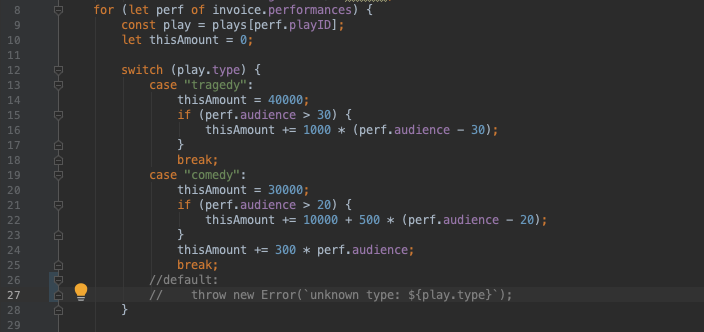
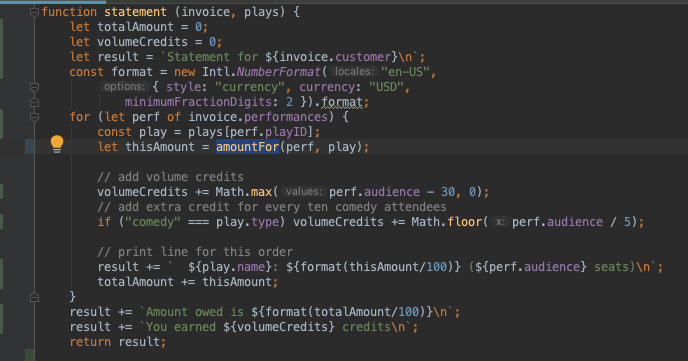
HandsOnLab: update decomposing/readme.md

diff --git a/HandsOnLab/3-Decomposing/readme.md b/HandsOnLab/3-Decomposing/readme.md
@@ -73,36 +73,59 @@ function statement (invoice, plays) {
 
 ### amountFor 함수 추출
 
-- 임시로 switch 문 default 문  코멘트 처리하기
+- amountFor 함수 추출
 
-  - 아래와 같이 amountFor 코드 영역을 선택하고 바로 "Extract Method" 리팩토링을 수행하면 아래와 같이 "Selected fragment has multiple exit points" 문구가 출력되는 경우가 있다.
+  - 아래와 같이 amountFor 코드 영역을 선택하고,  "Extract Method" 리팩토링을 수행하면 아래와 같이 "Selected fragment has multiple exit points" 문구가 출력되는 경우가 있다.
   - 리팩토링 문구 예시 :  ![image](./imgs/amtfor01.png)
-  - 아래와 같이 임시로 default 문을 코멘트 처리한다. ![image-20190404151142212](./imgs/amtfor02.png)
 
-- 리팩토링을 이용하여 추출할 코드 영역을 선택한다.
+- 수작업 amountFor 함수 생성
 
-  - ![image-20190404151320650](./imgs/img1.png)
+  - 아래 코드를 이용하여 수작업으로 amountFor 함수를 생성하고 이를 추가한다.
 
-- 해당 영역에서 오른쪽 마우스 버튼을 선택하고, "Extract Method" 를 이용하여 함수를 생성한다.
+    ```
+        function amountFor(perf, play) {
+            let thisAmount = 0;
+    
+            switch (play.type) {
+                case "tragedy":
+                    thisAmount = 40000;
+                    if (perf.audience > 30) {
+                        thisAmount += 1000 * (perf.audience - 30);
+                    }
+                    break;
+                case "comedy":
+                    thisAmount = 30000;
+                    if (perf.audience > 20) {
+                        thisAmount += 10000 + 500 * (perf.audience - 20);
+                    }
+                    thisAmount += 300 * perf.audience;
+                    break;
+                default:
+                    throw new Error(`unknown type: ${play.type}`);
+            }
+    
+            return thisAmount;
+        }
+    ```
 
-  - ![img](./imgs/img2.png)
+    
 
-- 함수 생성 Scope는 "function statement"를 선택한다.
+- 리팩토링할 코드 영역을 지우고 amountFor 함수 호출로 변경한다. ![image-20190411204233061](./imgs/amtfor02.png)
 
-  - ![image-20190404151418192](./imgs/img3.png)
-
-- Extract Function 수행 후, amountFor 함수 위치를 statement 함수 하단으로 이동해 준다. 
-
-- 코멘트 처리한 default 문도 코멘트를 지운다.
-
-  - 코드 수정 후 : 
-    ![image-20190404151832023](./imgs/amtfor03.png)
 
 - 리팩토링 후 코드 예시 : 
+
   ```javascript
+  function statement (invoice, plays) {
+      let totalAmount = 0;
+      let volumeCredits = 0;
+      let result = `Statement for ${invoice.customer}\n`;
+      const format = new Intl.NumberFormat("en-US",
+          { style: "currency", currency: "USD",
+              minimumFractionDigits: 2 }).format;
       for (let perf of invoice.performances) {
           const play = plays[perf.playID];
-          let thisAmount = amountFor(play, perf);
+          let thisAmount = amountFor(perf, play);
   
           // add volume credits
           volumeCredits += Math.max(perf.audience - 30, 0);
@@ -117,7 +140,7 @@ function statement (invoice, plays) {
       result += `You earned ${volumeCredits} credits\n`;
       return result;
   
-      function amountFor(play, perf) {
+      function amountFor(perf, play) {
           let thisAmount = 0;
   
           switch (play.type) {
@@ -137,27 +160,14 @@ function statement (invoice, plays) {
               default:
                   throw new Error(`unknown type: ${play.type}`);
           }
+  
           return thisAmount;
       }
+  }
   ```
 
 - 테스트 수행
 
-  - 테스트가 전부 통과되었는지 확인한다.
-
-
-
-
-
-
-### amountFor Signature 변경
-
-- Refactor 메뉴의 "Change Signature" 기능을 이용하여 amountFor 의 Signature 를 변경한다.
-  -  마우스를 이용하여 코드 상에서 amountFor 를 선택한 후 아래 그림과 같이 "Change Signature" 리팩토링을 수행한다.
-  -  ![image-20190404152129733](./imgs/img5.png)
-  -  perf 를 함수 첫번째 파라미터로 설정한다. "value in the call" 은 함수를 호출하는 코드에서 입력할 변수나 값을 지정한다. 여기서는 perf 로 동일하다. "+" 버튼 옆 "Up" 버튼을 이용하여 perf 를 첫번째 파라미터로 이동한다. ![image-20190404152234903](./imgs/img6.png)
-  -  리팩토링 수행 후 :  ![image-20190324101802842](./imgs/img7.png)
-- 테스트 수행
   - 테스트가 전부 통과되었는지 확인한다.
 
 
@@ -770,7 +780,7 @@ function statement (invoice, plays) {
 
   - 함수 생성 위치(Scope)는 "function statement"를 선택한다. ![image-20190407182922044](./imgs/totamt06.png)
 
-  - 생성된 함수는 아래로 이동하여 코드를 정리한다.  ![image-20190407183109137](/Users/leo/refactoring/study/js-refactoring-2019/HandsOnLab/3-Decomposing/imgs/totamt07.png)
+  - 생성된 함수는 아래로 이동하여 코드를 정리한다.  ![image-20190407183109137](./imgs/totamt07.png)
 
   - 코드 예시  :
 
